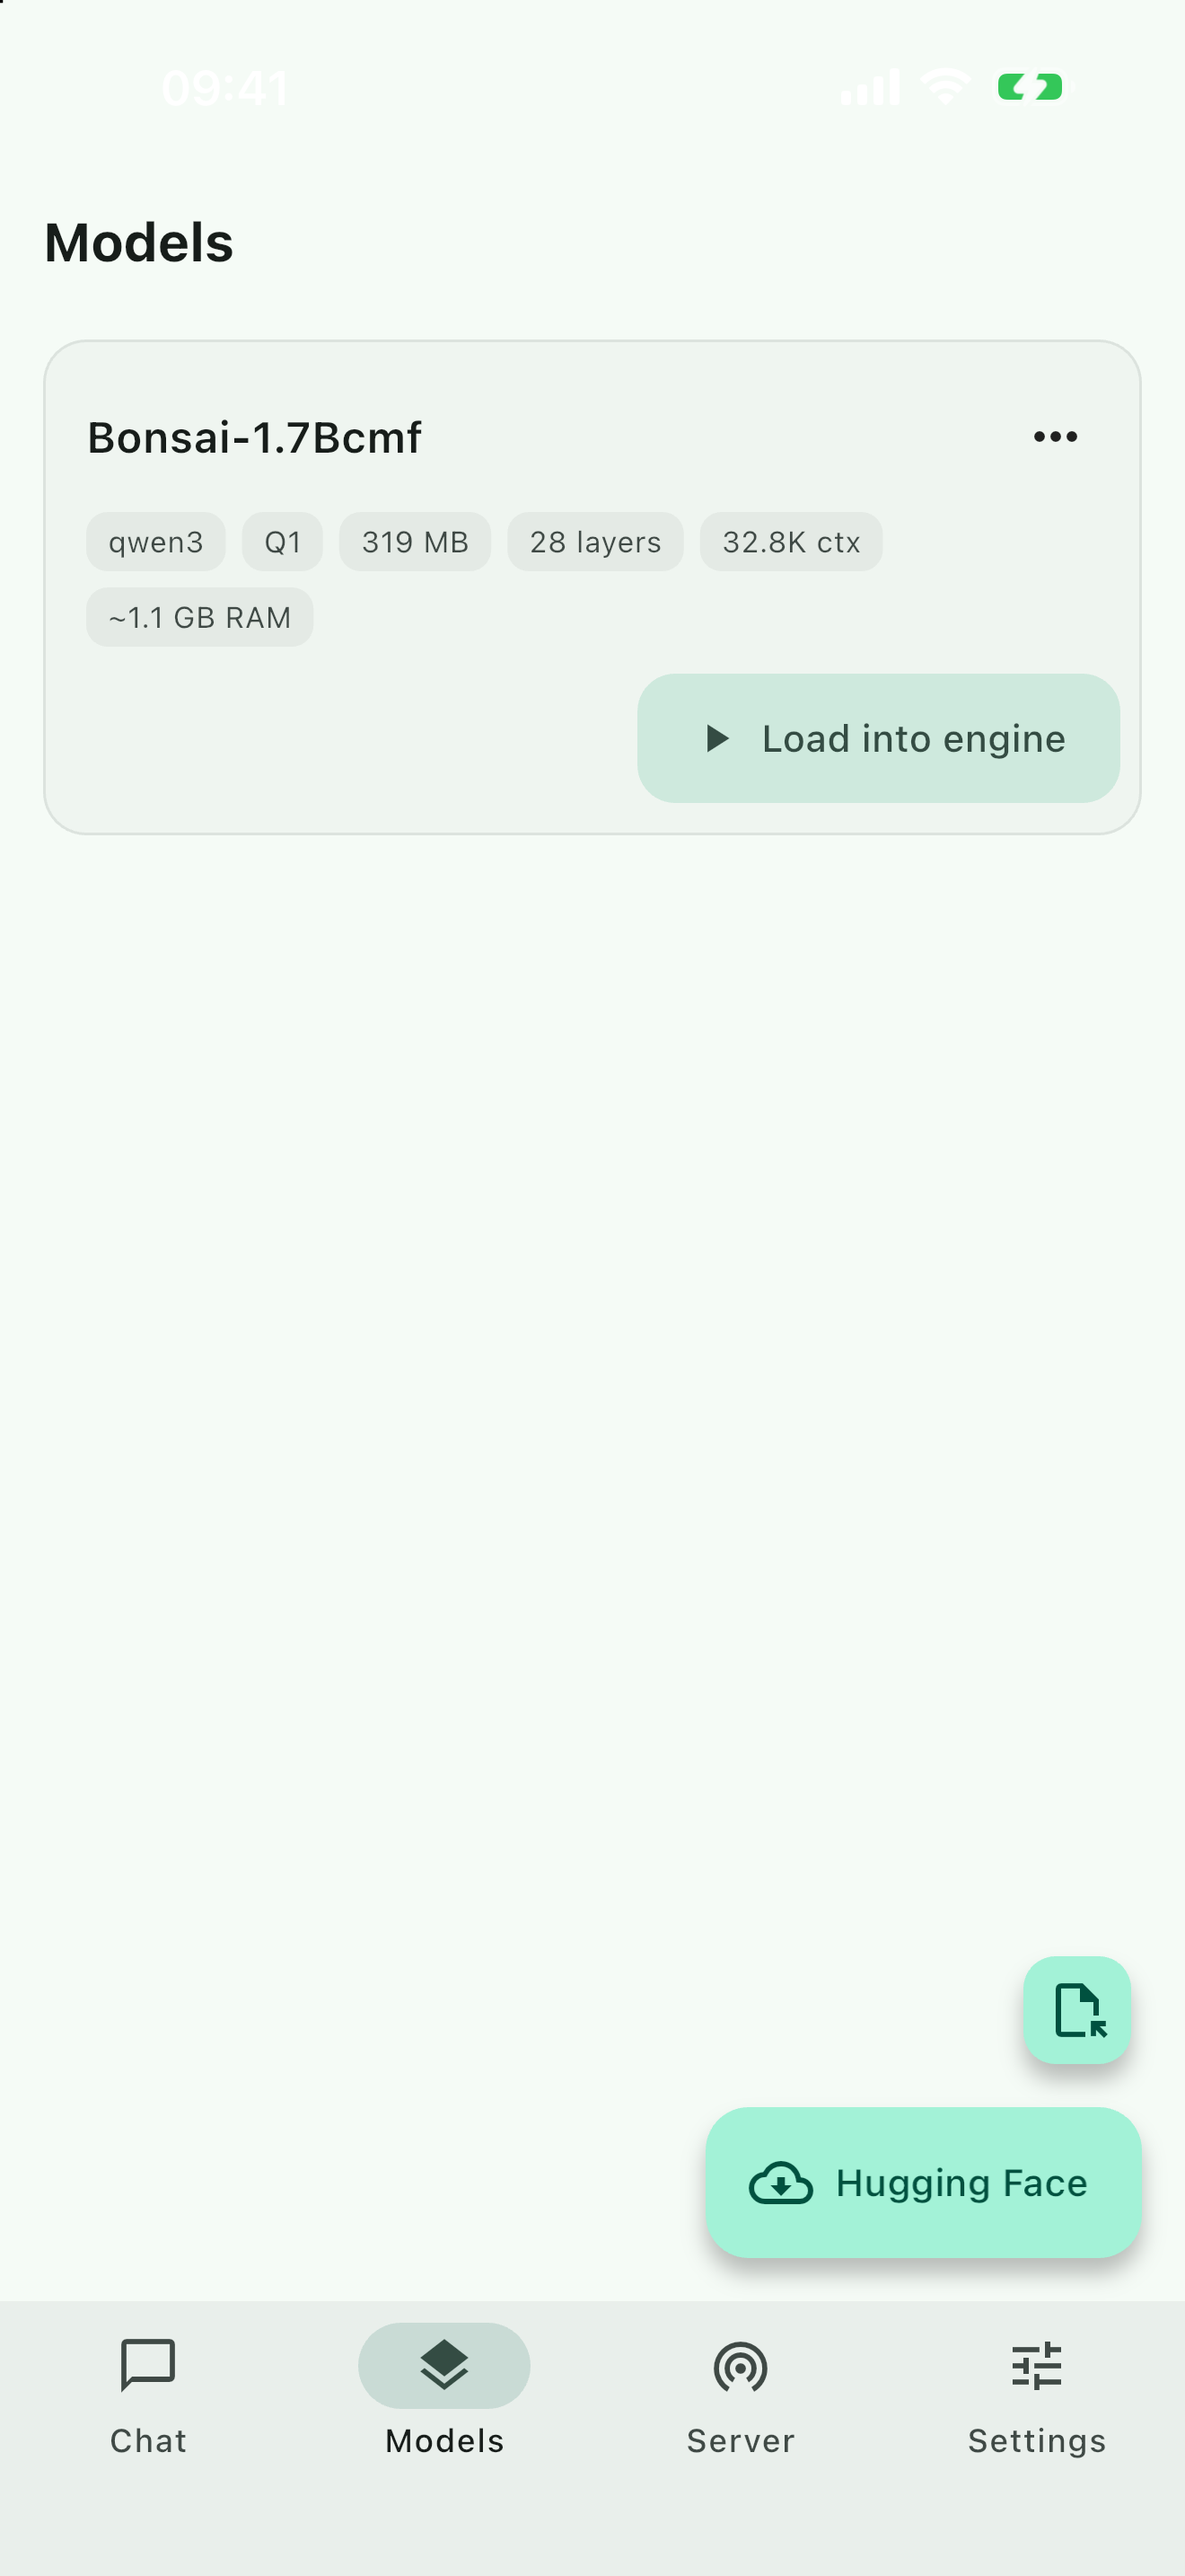
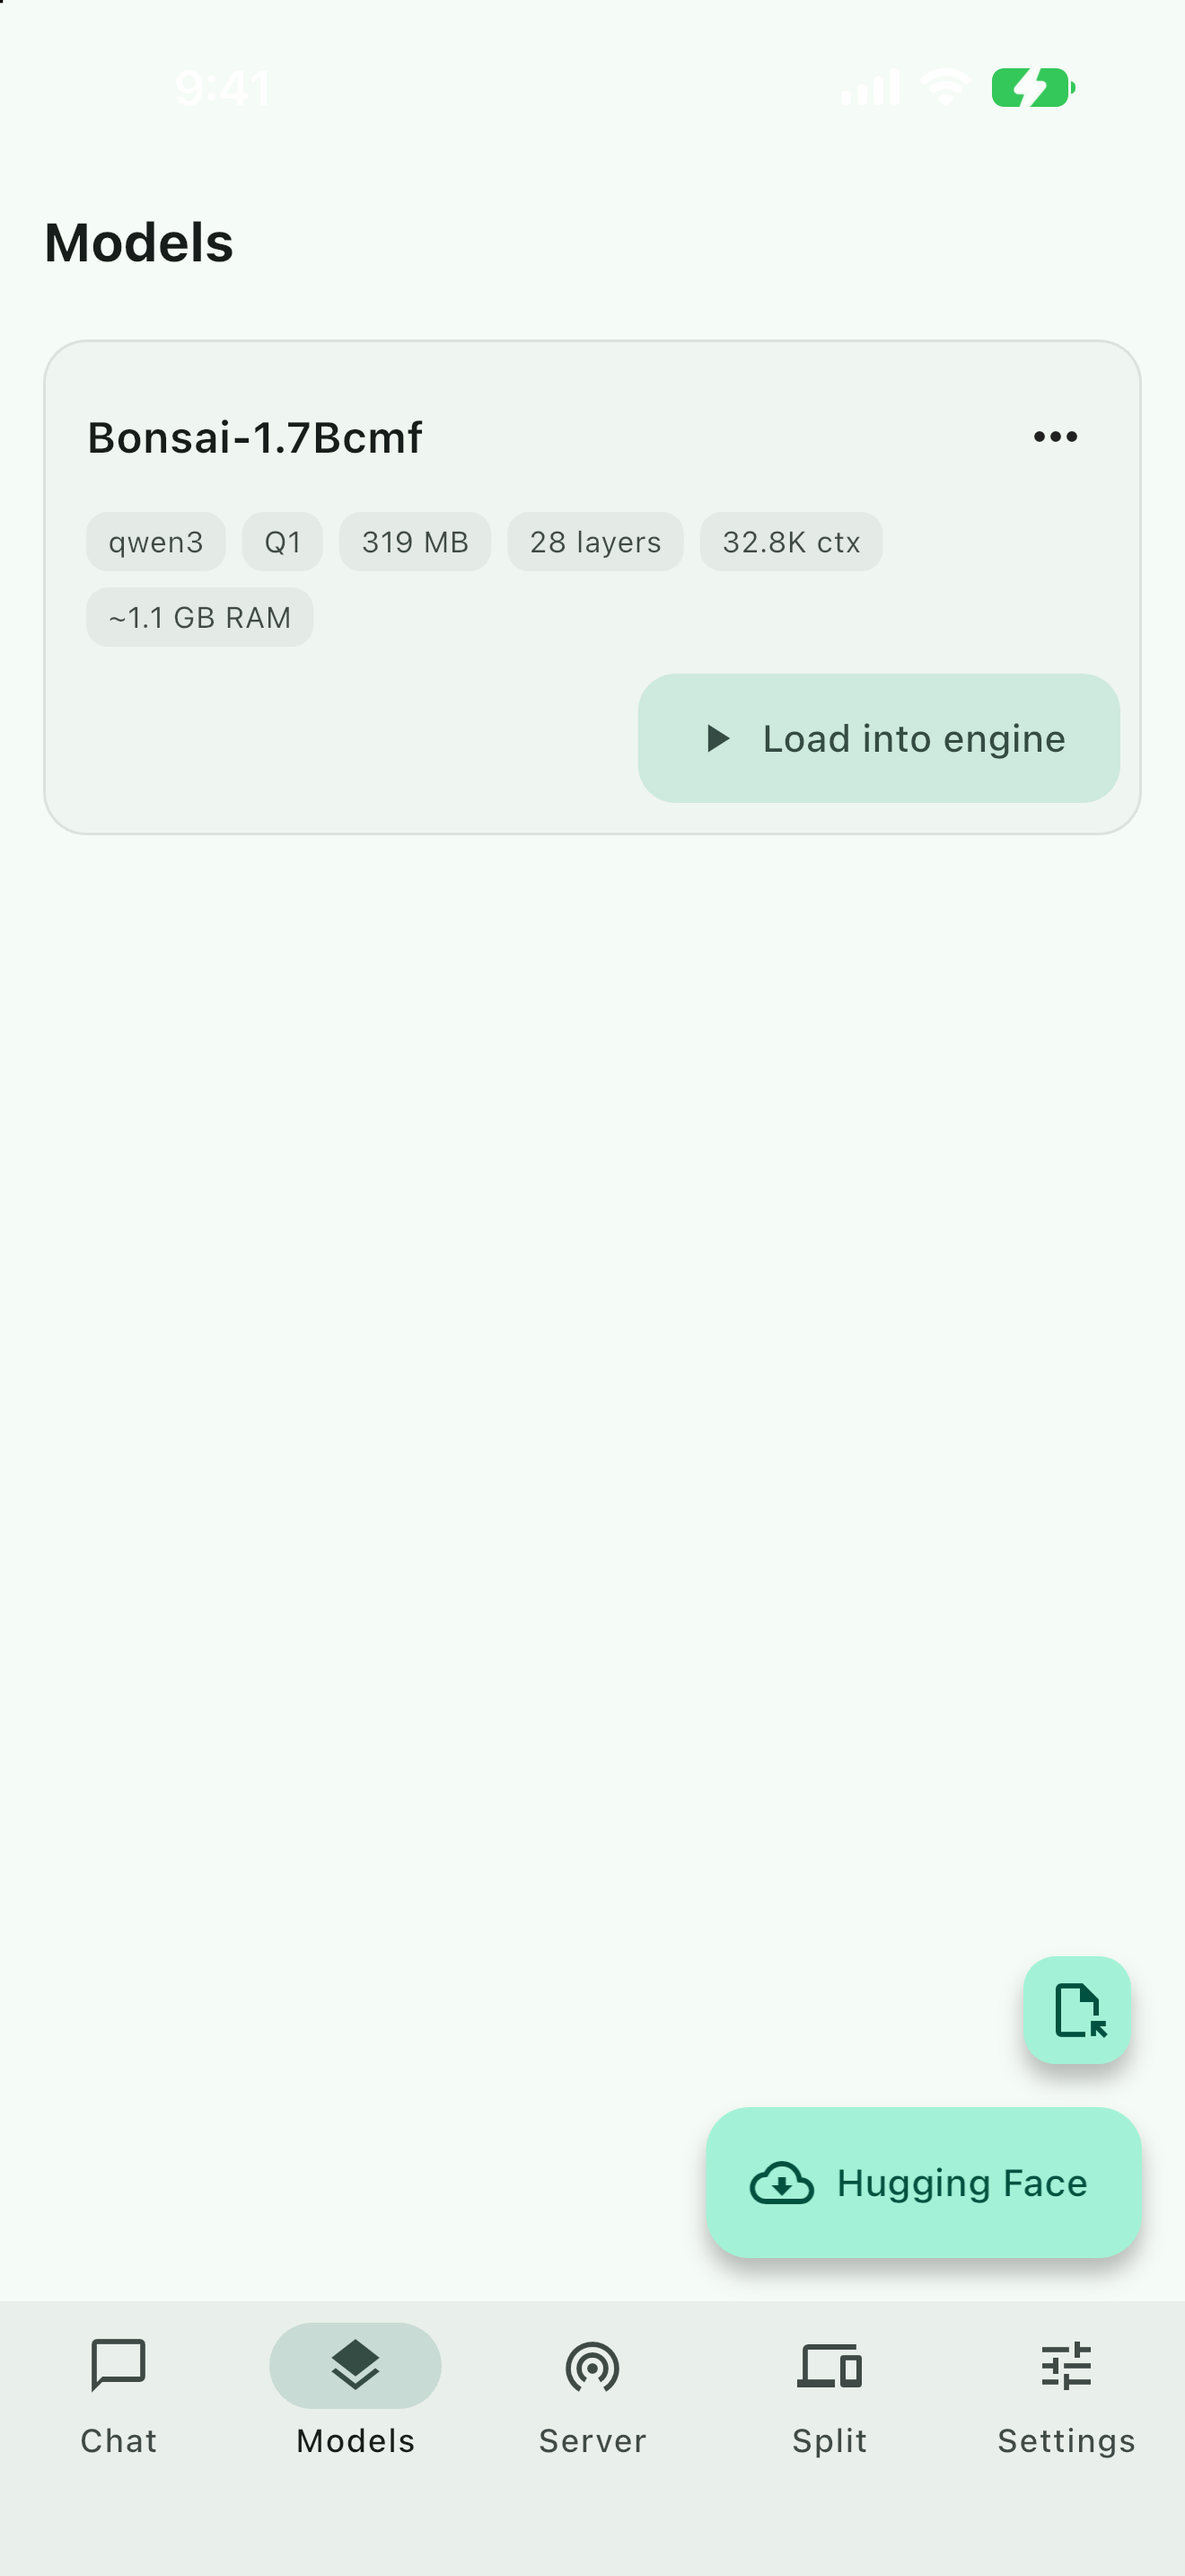
Refresh the App Store assets for 1.2.8
The screenshots dated from July, when the app had four tabs; Split has been
a fifth one for a while and the listing never showed it. Recaptured all of
them on iPhone 17 Pro Max and iPad Pro 13-inch simulators — English UI, the
canonical 9:41 status bar — with a real model loaded and a real reply on
screen rather than an empty state, and added the Split tab as a seventh shot
in both slots. The iPad set grew from four screenshots to seven.

The description gained a COMPANION section for the same reason. It says
plainly that a split does not make a model faster, only possible, because
that is what the feature's own copy says and promising speed would be a lie.

integration_test/screenshots_test.dart is what drives it: `flutter test`
reinstalls the app and wipes its container, so the test copies the .cmf in
from a host path itself, and the frames are grabbed by `simctl io` from the
host through a marker file — takeScreenshot() returns only the Flutter
surface and would drop the status bar.

The reviewer correspondence draft is now ignored rather than tracked: it is
working material for the Resolution Center, not something the public
repository needs.

diff --git a/integration_test/screenshots_test.dart b/integration_test/screenshots_test.dart
@@ -1,0 +1,152 @@
+// Drives the app through the App Store screenshot set on a simulator.
+//
+//   xcrun simctl boot <udid>
+//   # seed a .cmf into the app container, then:
+//   flutter test integration_test/screenshots_test.dart -d <udid>
+//
+// The capture itself is done from the host with `xcrun simctl io screenshot`,
+// because that grabs the whole device surface including the status bar —
+// takeScreenshot() only returns the Flutter view and would drop it. The two
+// sides meet through a marker file: this test writes
+// `Documents/.shot/<name>`, the host script sees it, captures, and deletes
+// it. The dwell below is a ceiling, not a fixed sleep, so a fast host does
+// not wait and a slow one is not raced.
+import 'dart:io';
+
+import 'package:flutter/material.dart';
+import 'package:flutter_riverpod/flutter_riverpod.dart';
+import 'package:flutter_test/flutter_test.dart';
+import 'package:integration_test/integration_test.dart';
+import 'package:path_provider/path_provider.dart';
+
+import 'package:cmf_mobile/app.dart';
+
+late Directory shotDir;
+
+Future<void> pumpFor(WidgetTester tester, Duration d) async {
+  for (var i = 0; i < d.inMilliseconds ~/ 100; i++) {
+    await tester.pump(const Duration(milliseconds: 100));
+  }
+}
+
+/// Asks the host for a screenshot and waits until it confirms by deleting the
+/// marker. Keeps pumping so the UI stays live while the host captures.
+Future<void> shoot(WidgetTester tester, String name) async {
+  final marker = File('${shotDir.path}/$name');
+  await marker.writeAsString('go');
+  for (var i = 0; i < 300; i++) {
+    await tester.pump(const Duration(milliseconds: 100));
+    if (!marker.existsSync()) {
+      debugPrint('SHOT | $name captured');
+      return;
+    }
+  }
+  debugPrint('SHOT | $name TIMED OUT — host never captured');
+}
+
+/// Taps the first hit of [finder] if it is there, and says so either way.
+Future<bool> tapIfPresent(WidgetTester tester, Finder finder, String what,
+    {Duration settle = const Duration(seconds: 3)}) async {
+  if (finder.evaluate().isEmpty) {
+    debugPrint('SHOT | skipped: $what not found');
+    return false;
+  }
+  await tester.tap(finder.first, warnIfMissed: false);
+  await pumpFor(tester, settle);
+  return true;
+}
+
+void main() {
+  IntegrationTestWidgetsFlutterBinding.ensureInitialized();
+
+  testWidgets('capture the store screenshot set', (tester) async {
+    final docs = await getApplicationDocumentsDirectory();
+    shotDir = Directory('${docs.path}/.shot');
+    await shotDir.create(recursive: true);
+
+    // `flutter test integration_test` reinstalls the app, and that wipes the
+    // data container — so the model cannot be seeded from the host before the
+    // run. A simulator app can read host paths, so copy it in from here.
+    const seed = String.fromEnvironment('SEED_MODEL');
+    final models = Directory('${docs.path}/models');
+    await models.create(recursive: true);
+    final dest = File('${models.path}/${seed.split('/').last}');
+    if (seed.isEmpty) {
+      debugPrint('SHOT | no SEED_MODEL given — library will be empty');
+    } else if (dest.existsSync()) {
+      debugPrint('SHOT | model already in place');
+    } else if (File(seed).existsSync()) {
+      await File(seed).copy(dest.path);
+      debugPrint('SHOT | seeded ${await dest.length()} bytes');
+    } else {
+      debugPrint('SHOT | seed unreadable from the sandbox: $seed');
+    }
+
+    await tester.pumpWidget(const ProviderScope(child: CmfApp()));
+    await pumpFor(tester, const Duration(seconds: 8));
+
+    // --- Model library, with the seeded model listed ---
+    await tapIfPresent(tester, find.byIcon(Icons.layers_outlined), 'Models tab');
+    await shoot(tester, '02_models');
+
+    // --- Load the model into the engine, so the chat is a real one ---
+    if (await tapIfPresent(tester, find.text('Load into engine'), 'load button',
+        settle: const Duration(seconds: 5))) {
+      // Loading a 319 MB file on a simulator is not instant.
+      for (var i = 0; i < 24; i++) {
+        await pumpFor(tester, const Duration(seconds: 5));
+        if (find.text('loaded').evaluate().isNotEmpty) break;
+      }
+      debugPrint('SHOT | model loaded: '
+          '${find.text('loaded').evaluate().isNotEmpty}');
+    }
+
+    // --- Hugging Face catalog ---
+    if (await tapIfPresent(
+        tester, find.byIcon(Icons.cloud_download_outlined), 'HF button')) {
+      await pumpFor(tester, const Duration(seconds: 25));
+      await shoot(tester, '03_huggingface');
+      await tapIfPresent(tester, find.byType(BackButton), 'back');
+    }
+
+    // --- Chat: ask something real and wait for the model to answer ---
+    await tapIfPresent(tester, find.byIcon(Icons.chat_bubble_outline), 'Chat tab');
+    final field = find.byType(TextField);
+    if (field.evaluate().isNotEmpty) {
+      await tester.enterText(field.first,
+          'Write a SQL query that sums revenue by month.');
+      await pumpFor(tester, const Duration(seconds: 1));
+      await tapIfPresent(tester, find.byIcon(Icons.arrow_upward), 'send',
+          settle: const Duration(seconds: 2));
+      // Generation on a simulator CPU takes its time; stop early once the
+      // stop button is gone, which means the reply finished.
+      for (var i = 0; i < 60; i++) {
+        await pumpFor(tester, const Duration(seconds: 5));
+        if (find.byIcon(Icons.stop).evaluate().isEmpty && i > 2) break;
+      }
+    }
+    await shoot(tester, '01_home');
+    await shoot(tester, '04_chat');
+
+    // --- Server ---
+    await tapIfPresent(tester, find.byIcon(Icons.wifi_tethering_outlined), 'Server tab');
+    final toggle = find.byType(Switch);
+    if (toggle.evaluate().isNotEmpty) {
+      await tester.tap(toggle.first, warnIfMissed: false);
+      await pumpFor(tester, const Duration(seconds: 6));
+    }
+    await shoot(tester, '05_server');
+    if (toggle.evaluate().isNotEmpty) {
+      await tester.tap(find.byType(Switch).first, warnIfMissed: false);
+      await pumpFor(tester, const Duration(seconds: 3));
+    }
+
+    // --- Split / Companion: the feature the July set predates ---
+    await tapIfPresent(tester, find.byIcon(Icons.devices_outlined), 'Split tab');
+    await shoot(tester, '07_split');
+
+    // --- Settings ---
+    await tapIfPresent(tester, find.byIcon(Icons.tune_outlined), 'Settings tab');
+    await shoot(tester, '06_settings');
+  }, timeout: const Timeout(Duration(minutes: 25)));
+}

diff --git a/store_assets/appstore_listing.md b/store_assets/appstore_listing.md
@@ -47,6 +47,14 @@ LOCAL AI SERVER
 • Use your phone as an AI backend for laptops and other devices
 • QR code for instant connection setup
 
+COMPANION — SPLIT A MODEL WITH YOUR DESKTOP
+
+• Run a model too large for your phone by pairing it with your own computer
+• The desktop holds the layers; your phone keeps the tokenizer and draws the reply
+• Or lend your phone's memory to the desktop and compute a span of layers here
+• Connect over USB cable or Wi-Fi, protected by a shared token
+• A split does not make a model faster — it makes a model possible
+
 Cortiq is part of the open CMF ecosystem. Model performance depends on your device: newer iPhones with more RAM run larger models faster.
 
 ## Keywords (100 chars max, comma-separated)
@@ -59,6 +67,20 @@ local ai,llm,offline,private,chat,hugging face,on-device,gpt,assistant,open sour
 
 ## What's New in 1.1.17
 Stability improvements and performance optimizations for the Cortiq engine.
+
+## What's New in 1.2.8
+Conversions no longer stop when the screen goes dark — a download or a
+conversion now keeps the device awake until it finishes.
+
+Downloads survive a bad connection: if one parallel stream stalls, the rest of
+the file is fetched on its own instead of the whole transfer being discarded.
+
+The app can now use more of your device's memory, so larger models load on
+phones that previously refused them.
+
+The ready-to-use model catalog reports a problem and offers a retry instead of
+spinning forever, and it now judges what fits using the memory the app can
+actually use — so it stops offering models that could never load.
 
 ## App Privacy (анкета)
 - Data collection: **No, we do not collect data** («Data Not Collected») —
